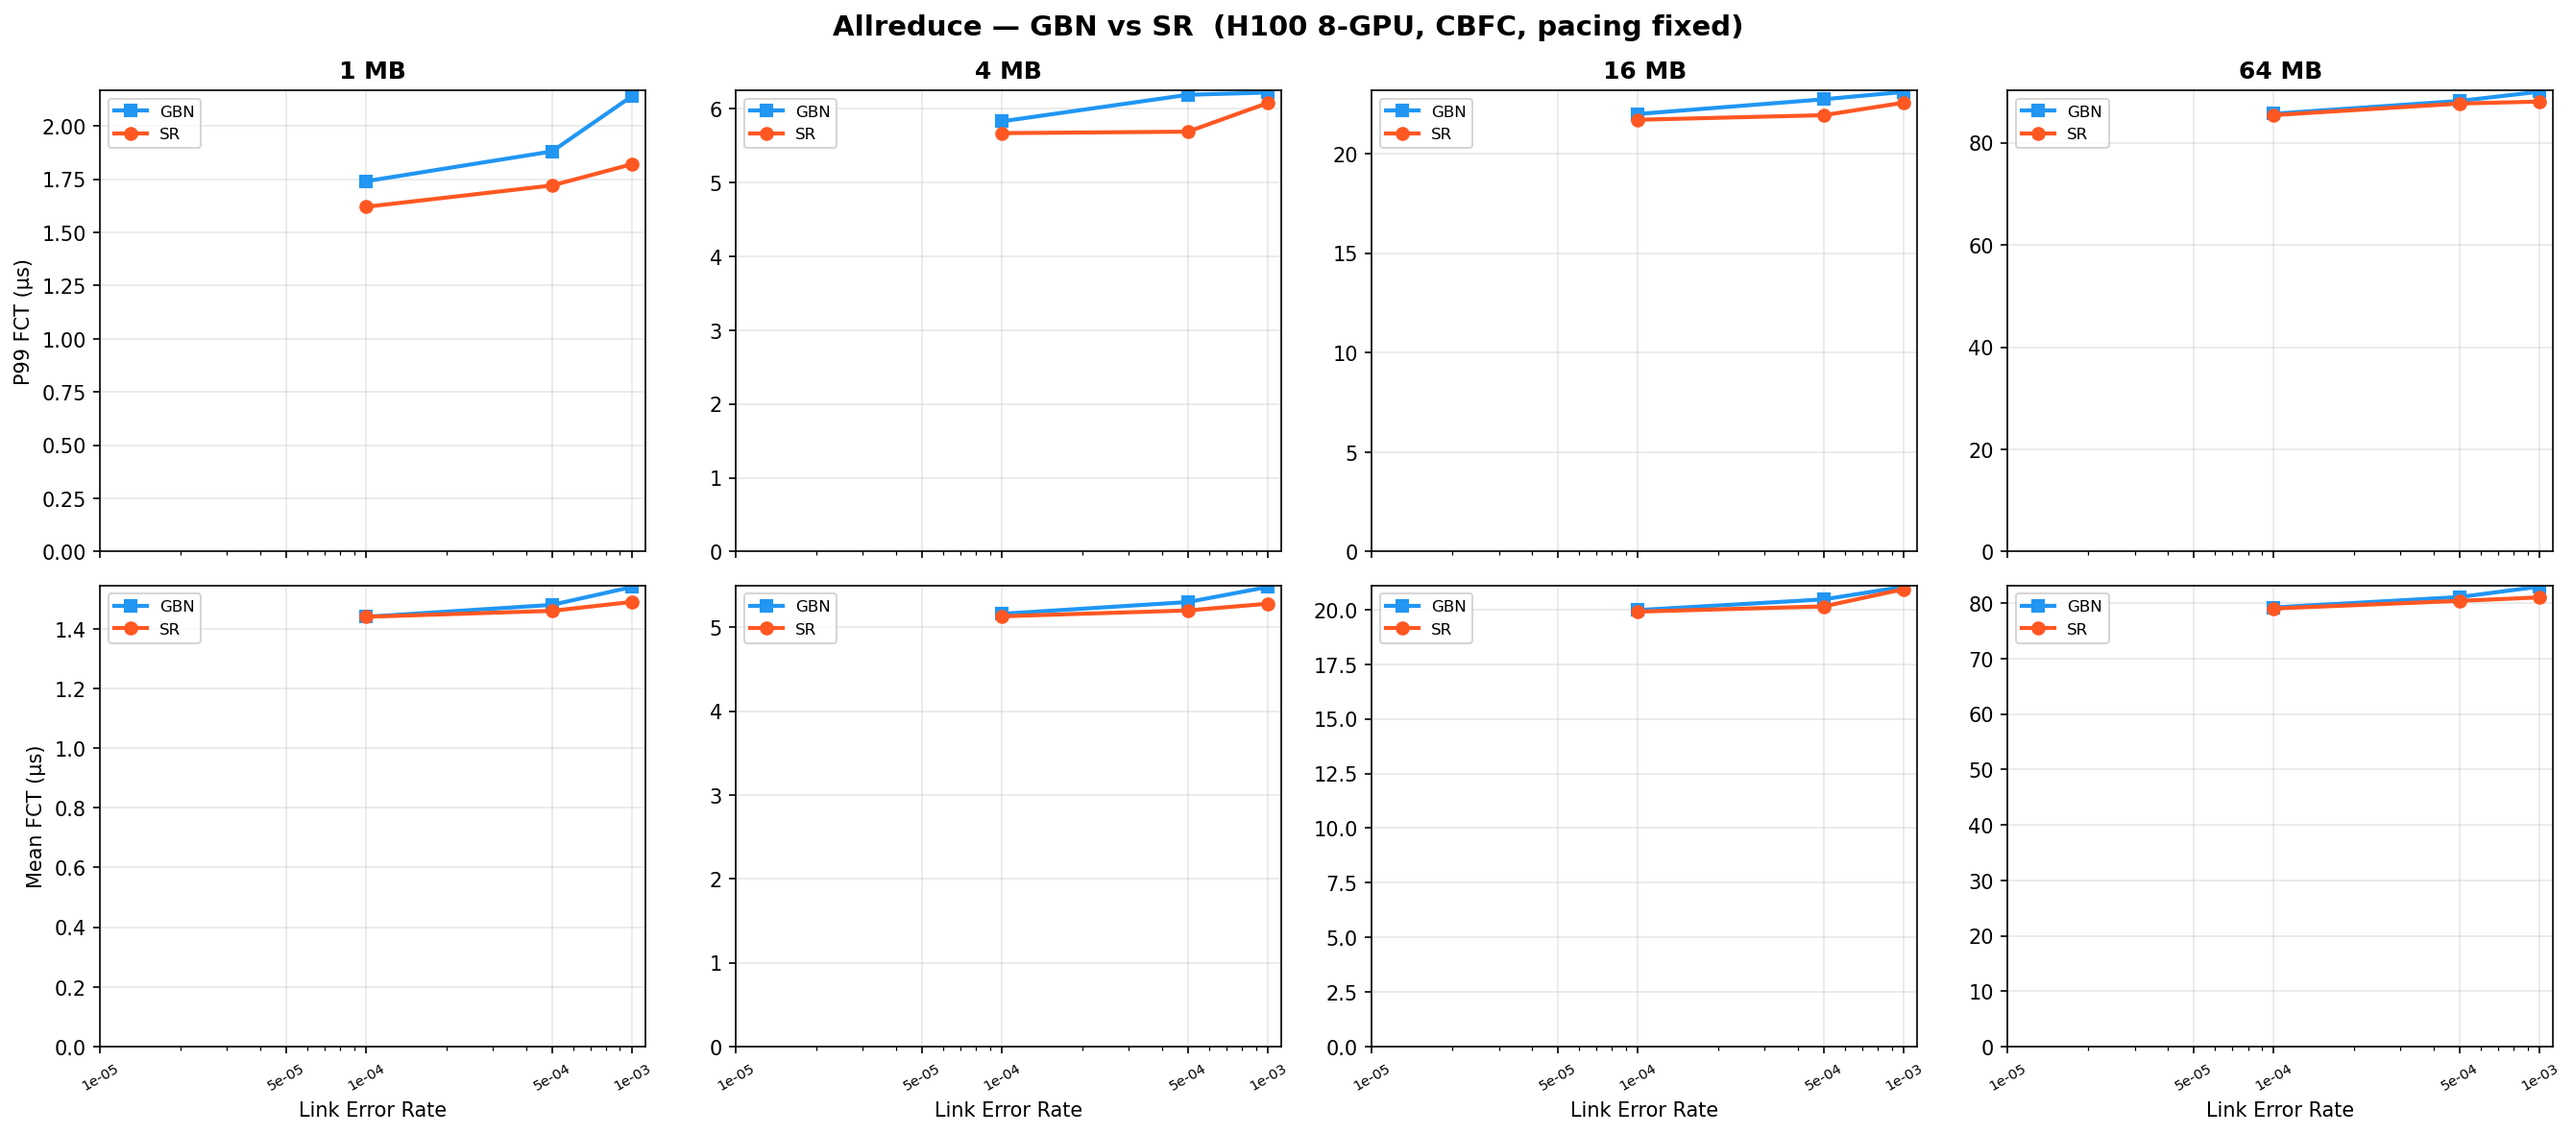
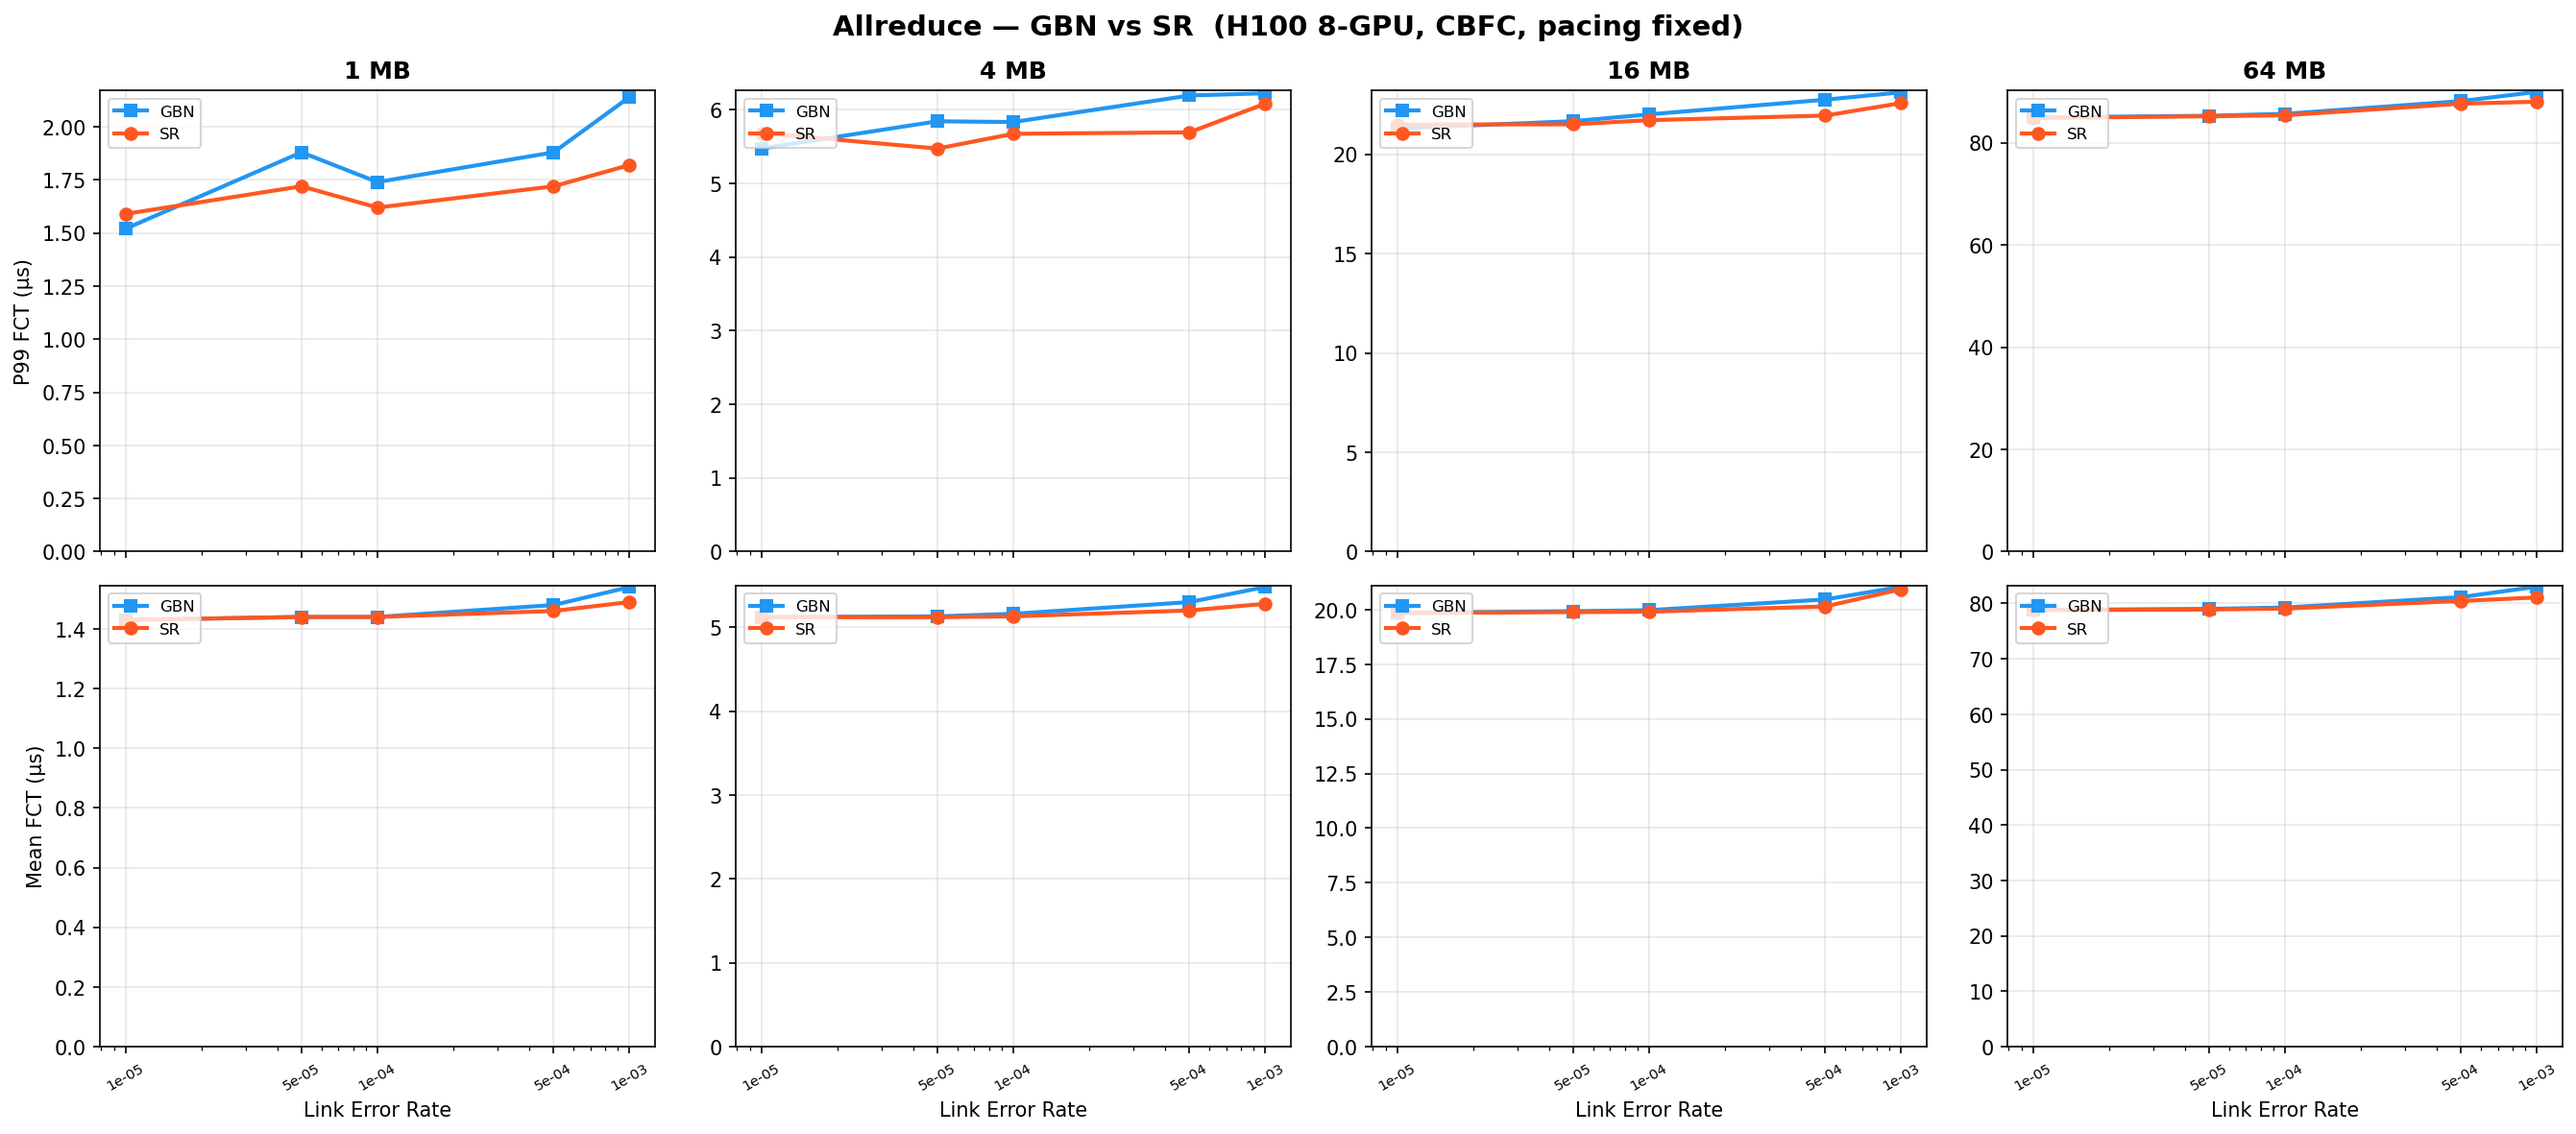
fix: 修复画图脚本errrate字符串匹配bug, 5个错误率数据点全部显示

diff --git a/experiments_v2/plot_results.py b/experiments_v2/plot_results.py
@@ -34,7 +34,7 @@ def load_csv(path):
             parts = line.strip().split(',')
             if len(parts) < 9: continue
             try:
-                key = (parts[1], parts[2], parts[3])
+                key = (parts[1], parts[2], float(parts[3]))
                 data[key] = {
                     'mean': float(parts[6]),
                     'p99':  float(parts[7]),
@@ -48,7 +48,7 @@ def load_csv(path):
 def get_vals(data, traffic, msgsize, metric):
     vals = []
     for er in ERR_RATES:
-        key = (traffic, msgsize, str(er))
+        key = (traffic, msgsize, er)
         vals.append(data.get(key, {}).get(metric, np.nan))
     return vals
 
@@ -143,7 +143,7 @@ def print_summary(sr, gbn):
         print("-"*90)
         for ms in MSG_SIZES:
             for er in ERR_RATES:
-                key = (traffic, ms, str(er))
+                key = (traffic, ms, er)
                 g = gbn.get(key, {})
                 s = sr.get(key, {})
                 gm = g.get('mean', 0); sm = s.get('mean', 0)
